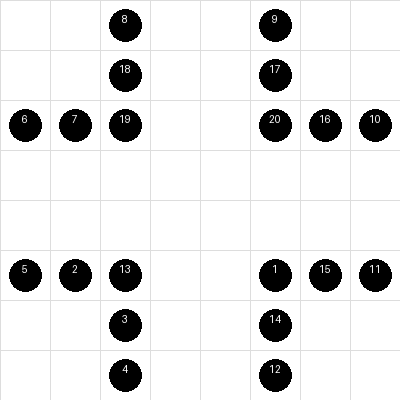
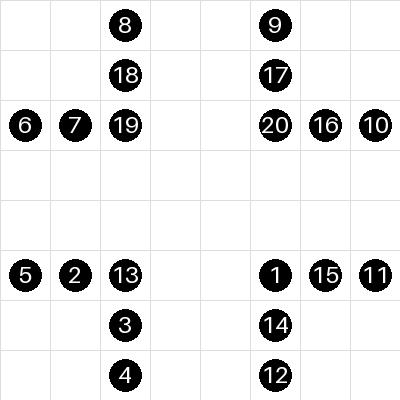
fix font

diff --git a/visualiser.py b/visualiser.py
@@ -22,7 +22,7 @@ def visualise_zip(
     img_px: int = size * cell_px
     img: Image.Image = Image.new("RGB", (img_px, img_px), "white")
     draw: ImageDraw.ImageDraw = ImageDraw.Draw(img)
-    font: Any = ImageFont.load_default()
+    font: Any = ImageFont.load_default(24)
 
     # --- draw cell borders ------------------------------------------
 
@@ -57,7 +57,7 @@ def visualise_zip(
     # --- draw the path ------------------------------------------------
 
     # convert grid coords to pixel centers
-    pix_centers: List[Tuple[float, float]] = [
+    pix_centers: List[tuple] = [
         ((x + 0.5) * cell_px, (y + 0.5) * cell_px) for y, x in solution
     ]
     if solved:
